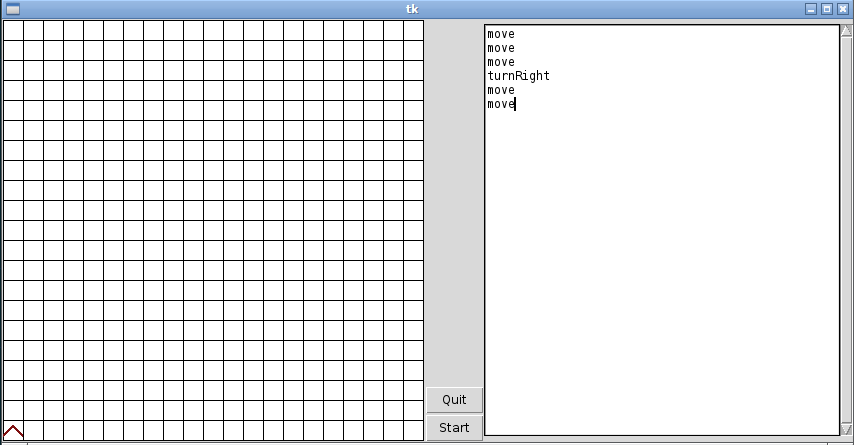
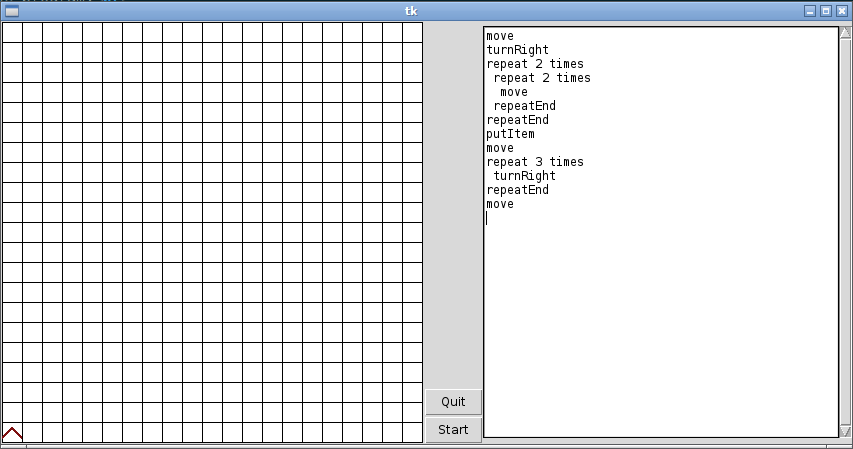
added repeat expresion with nested anidation at any level

Changed region(s): [[0.0, 0.0, 1.0, 1.0]]

diff --git a/resources/parser.py b/resources/parser.py
@@ -1,3 +1,4 @@
+import re
 class Parser:
 
 	"""Parses a document the instruction are:
@@ -8,8 +9,13 @@ class Parser:
 	5: putItem
 	6: pickItem
 	
+	--- conditional statements --- (not yet)
+	60: if [cond] 
+	61: else
+	62: ifEnd
 
-	--- control statements --- (comming soon)
+
+	--- control statements ---
 	70: repeat [n] times
 	71: repeatEnd 
 
@@ -24,47 +30,75 @@ class Parser:
 	---errors and other non instructions---
 	98: -whiteline
 	99: -noRealInstruction
+	100: -endOfIntructions
   """
+  	patternRepeat = re.compile("repeat[ ]+\d+[ ]+times") #repeat statement
 
 	def __init__(self):
 		pass
 
-	def parse(self, string):
+	def parse(self, string):   #first command to be called
 		commands = []
-		lines = [ l.strip() for l in string.split()]
-		for aline in lines:
-			self.insertToken(aline, commands)
+		lines = [ l.strip() for l in string.split("\n")]
+		while(lines):
+			aline = lines.pop(0)
+			self.preProcess(aline, lines, commands)
+		commands.append(100)
 		return commands
 
-	def insertToken(self,line, commands):
+
+	def preProcess(self, string, inputList, resultList):  #preprocess checks for command statements
+		if(self.patternRepeat.match(string)):
+			forList = []
+			forList.append(70)
+			forList.extend([int(n) for n in string.split() if n.isdigit()])
+			inerList = []
+			self.createInnerList("repeatEnd",inputList, inerList)
+			forList.append(inerList)
+			resultList.append(forList)
+		else:
+			self.insertToken(string, resultList)
+
+
+
+	def createInnerList(self, terminator, inputList, outputList): #creanes a list of parameters until end val
+		while(inputList):
+			bline = inputList.pop(0)
+			if(bline == terminator):
+				outputList.append(71)
+				break
+			else:
+				self.preProcess(bline,inputList,outputList) #recursion in case of nested operations
+
+	def insertToken(self,line, alist):
 		if line == "move":
-			commands.append(1)
+			alist.append(1)
 		elif line == "lookUp":
-			commands.append(2)
+			alist.append(2)
 		elif line == "turnRight":
-			commands.append(3)
+			alist.append(3)
 		elif line == "lookDown":
-			commands.append(4)
+			alist.append(4)
 		elif line == "putItem":
-			commands.append(5)
+			alist.append(5)
 		elif line == "pickItem":
-			commands.append(6)
+			alist.append(6)
 		elif line == "isWallInfront":
-			commands.append(80)
+			alist.append(80)
 		elif line == "isWallAtRight":
-			commands.append(81)
+			alist.append(81)
 		elif line == "isWallBehind":
-			commands.append(82)
+			alist.append(82)
 		elif line == "isWallAtLeft":
-			commands.append(83)
+			alist.append(83)
 		elif line == "isOverItem":
-			commands.append(84)
+			alist.append(84)
 		elif line == "hasItem":
-			commands.append(85)
+			alist.append(85)
 		elif line == "":
-			commands.append(98)
+			alist.append(98)
 		else: 
-			commands.append(99)
+			alist.append(99)
 
 
 

diff --git a/play.py b/play.py
@@ -1,4 +1,7 @@
 import sys
+import threading 
+import functools
+
 from Tkinter import * 
 import tkMessageBox
 
@@ -32,7 +35,7 @@ def drawItem(x, y):
 def pickItem(itemId):
 	canvas.delete(itemId)
 
-def doAction(action):  #executes the actions
+def doAction(action):  #executes the actions, backFun, 1 = return to logic() 2 = return to contorl logic
 	global problem
 	if action == 1: #move
 		canDo = arobot.robot_moveinfront();
@@ -106,12 +109,11 @@ def doAction(action):  #executes the actions
 		print("robot says: I can't understand")
 		instruction[:] = []
 		tkMessageBox.showwarning("Language","The robot can't understand and has turned off")
+	elif action == 100:
+		tkMessageBox.showinfo("Good","Execution complete :D")
 	else:
 		pass
-	if(instruction):
-		master.after(1000, logic)
-	elif(not problem):
-		tkMessageBox.showinfo("Good","Execution complete :D")
+		
 
 def booleanEval(boolNum):
 	if(boolNum == 80):
@@ -129,18 +131,35 @@ def booleanEval(boolNum):
 	else:
 		pass
 
-def logic():
-	if not instruction:
+
+def logic(ainstruction):
+	if not ainstruction:
 		return False
-	i = instruction.pop(0)
-	doAction(i)
+	if problem:
+		return False
+	i = ainstruction.pop(0)
+	if(isinstance(i, list)):
+		pi = i[:]
+		if(pi[0] == 70):  #if its a repeat instruction
+			if(pi[1] > 0):
+				pi[1] = i[1]-1
+				logic(pi[2][:]) #recursive call
+				ainstruction.insert(0, pi)
+				master.after(1000, lambda: logic(ainstruction[:]))
+			else:
+				master.after(1000, lambda: logic(ainstruction))
+	else:
+		doAction(i)
+		master.after(1000,lambda: logic(ainstruction))
+
+
 
 
 def start():
 	iltext = text.get(1.0, END)
 	aparser = parser.Parser()
-	instruction[:] = aparser.parse(iltext)
-	master.after(1000,logic)
+	instruction = aparser.parse(iltext)
+	master.after(1000,lambda: logic(instruction))
 
 
 canvasWidth = 421

diff --git a/resources/robot.py b/resources/robot.py
@@ -55,7 +55,7 @@ class Robot:
 	def robot_putItem(self):
 		if(self.items > 0):
 			self.items -= 1
-			self.mapa.placeItem(x,y)
+			self.mapa.placeItem(self.x,self.y)
 			return True
 		else:
 			return False

diff --git a/README.md b/README.md
@@ -11,20 +11,23 @@ First, start play.py <br>
 on unix-like systems: *python play.py [file with instructions]*<br>
 ![Pyrel start](/screenshots/pyrel_0.png)
 If you specify a file with instructions they are going to be loaded in the text area
-rigth now there are only few instructions:<br>
+rigth now there are only these instructions:<br>
 	 1. *move*<br>
 	 2. *lookUp* <br>
 	 3. *turnRight*<br>
 	 4. *lookDown*<br>
 	 5. *putItem*<br>
 	 6. *pickItem*<br> <br>
+	 Control Expresions <br><br>
+	 7. *repeat n times* (any level of anidation )<br>
+	 8. *repeatEnd*<br>
 	 Boolean Expresions <br><br>
-	 7. *isWallInfront* <br>
-	 8. *isWallAtRight* <br>
-	 9: *isWallBehind*  <br>
-	10: *isWallAtLeft*  <br>
-	11: *isOverItem*    <br>
-	12: *hasItem*       <br>
+	 9. *isWallInfront* <br>
+	10. *isWallAtRight* <br>
+	11: *isWallBehind*  <br>
+	12: *isWallAtLeft*  <br>
+	13: *isOverItem*    <br>
+	14: *hasItem*       <br>
 
 
 ![Pyrel writec](/screenshots/pyrel_1.png)
